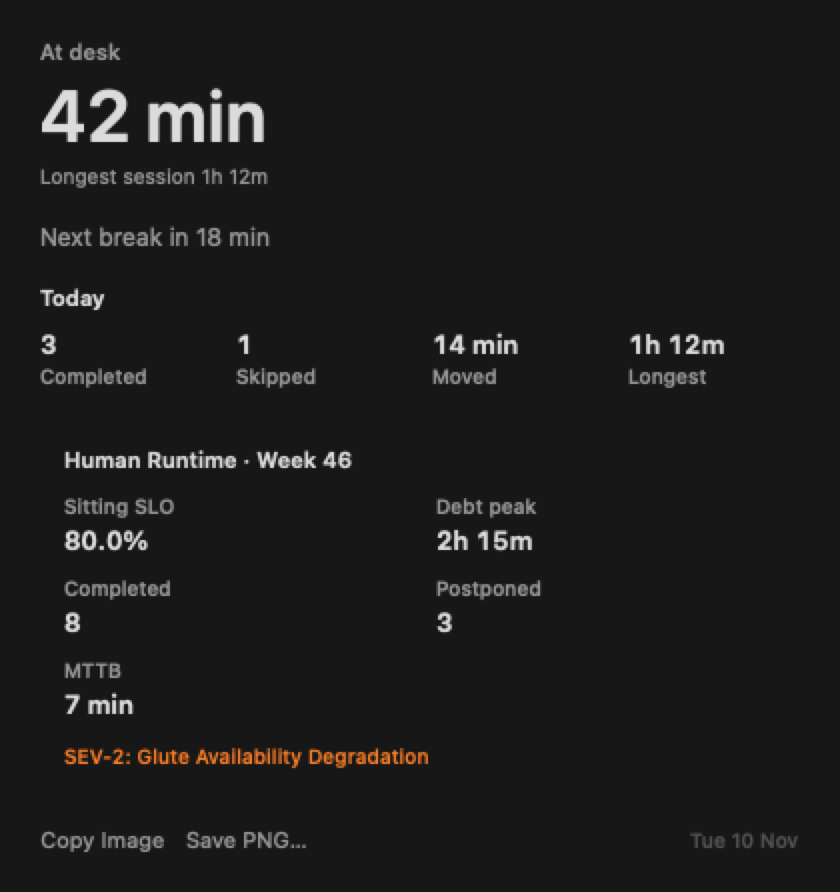
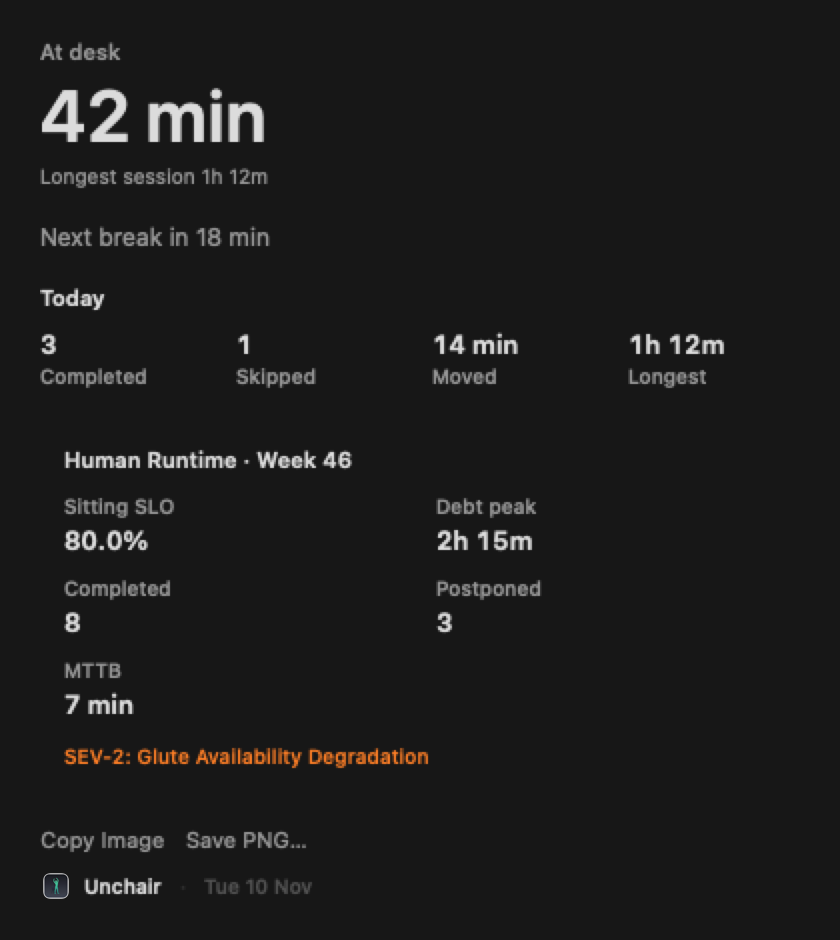
fix(ui): brand Today and share PNG with Unchair mark (#85)
Add logo + Unchair wordmark to the Today footer, and put the app icon plus
product name / privacy line / repo URL on the copy-save Human Runtime card.

diff --git a/Unchair/UI/TodayView.swift b/Unchair/UI/TodayView.swift
@@ -158,37 +158,46 @@ struct TodayDashboardLayout: View {
     }
 
     private var footer: some View {
-        HStack(alignment: .center, spacing: 10) {
-            Button("Copy Image") {
-                exportStatus = (onCopyImage ?? defaultCopy)()
-            }
-            .buttonStyle(.borderless)
-            .controlSize(.small)
-            .disabled(model.week.isEmpty)
-            .help(model.week.isEmpty ? "No week history to export" : "Copy Human Runtime card image")
-            .accessibilityHint(model.week.isEmpty ? "Unavailable until break history exists" : "Copies the weekly card to the clipboard")
+        VStack(alignment: .leading, spacing: 8) {
+            HStack(alignment: .center, spacing: 10) {
+                Button("Copy Image") {
+                    exportStatus = (onCopyImage ?? defaultCopy)()
+                }
+                .buttonStyle(.borderless)
+                .controlSize(.small)
+                .disabled(model.week.isEmpty)
+                .help(model.week.isEmpty ? "No week history to export" : "Copy branded Human Runtime card")
+                .accessibilityHint(model.week.isEmpty ? "Unavailable until break history exists" : "Copies the weekly card to the clipboard")
 
-            Button("Save PNG…") {
-                exportStatus = (onSavePNG ?? defaultSave)()
-            }
-            .buttonStyle(.borderless)
-            .controlSize(.small)
-            .disabled(model.week.isEmpty)
-            .help(model.week.isEmpty ? "No week history to export" : "Save Human Runtime card as PNG")
-            .accessibilityHint(model.week.isEmpty ? "Unavailable until break history exists" : "Opens a save panel for the weekly card")
+                Button("Save PNG…") {
+                    exportStatus = (onSavePNG ?? defaultSave)()
+                }
+                .buttonStyle(.borderless)
+                .controlSize(.small)
+                .disabled(model.week.isEmpty)
+                .help(model.week.isEmpty ? "No week history to export" : "Save branded Human Runtime card as PNG")
+                .accessibilityHint(model.week.isEmpty ? "Unavailable until break history exists" : "Opens a save panel for the weekly card")
 
-            if let exportStatus {
-                Text(exportStatus)
+                if let exportStatus {
+                    Text(exportStatus)
+                        .font(.caption2)
+                        .foregroundStyle(.tertiary)
+                        .accessibilityLabel("Export \(exportStatus.lowercased())")
+                }
+
+                Spacer(minLength: 8)
+            }
+
+            HStack(alignment: .center, spacing: 8) {
+                UnchairBrandMark(iconSide: 16, titleFont: .caption.weight(.semibold))
+                Text("·")
+                    .font(.caption2)
+                    .foregroundStyle(.quaternary)
+                Text(model.dayLabel)
                     .font(.caption2)
                     .foregroundStyle(.tertiary)
-                    .accessibilityLabel("Export \(exportStatus.lowercased())")
+                Spacer(minLength: 0)
             }
-
-            Spacer(minLength: 8)
-
-            Text(model.dayLabel)
-                .font(.caption2)
-                .foregroundStyle(.tertiary)
         }
     }
 

diff --git a/Unchair/UI/HumanRuntimeWeeklyCardView.swift b/Unchair/UI/HumanRuntimeWeeklyCardView.swift
@@ -169,30 +169,29 @@ enum HumanRuntimeWeeklyExportActions {
     }
 }
 
-/// Shareable export canvas — readable when scaled; same metrics, no Form chrome.
+/// Shareable export canvas — branded for copy/save; same metrics, no Form chrome.
 struct HumanRuntimeWeeklyCardCanvas: View {
     let summary: HumanRuntimeWeeklySummary
     var projectURL: String
 
     var body: some View {
         VStack(alignment: .leading, spacing: 0) {
-            HStack(alignment: .firstTextBaseline, spacing: 12) {
-                Image(systemName: "figure.stand")
-                    .font(.system(size: 22, weight: .semibold))
-                    .foregroundStyle(.secondary)
+            HStack(alignment: .center, spacing: 14) {
+                UnchairAppIcon(side: 44)
                 VStack(alignment: .leading, spacing: 2) {
-                    Text("Human Runtime")
+                    Text("Unchair")
                         .font(.title2.weight(.semibold))
+                    Text("Human Runtime · Week \(summary.weekNumber)")
+                        .font(.headline)
                     Text(weekRangeLabel)
                         .font(.subheadline)
                         .foregroundStyle(.secondary)
                 }
                 Spacer(minLength: 0)
-                Text("Week \(summary.weekNumber)")
-                    .font(.headline.monospacedDigit())
-                    .foregroundStyle(.secondary)
             }
-            .padding(.bottom, 20)
+            .padding(.bottom, 22)
+            .accessibilityElement(children: .combine)
+            .accessibilityLabel("Unchair Human Runtime, week \(summary.weekNumber), \(weekRangeLabel)")
 
             if summary.isEmpty {
                 Text("No break history this week.")
@@ -228,16 +227,18 @@ struct HumanRuntimeWeeklyCardCanvas: View {
                 }
             }
 
-            Spacer(minLength: 16)
+            Spacer(minLength: 20)
 
-            HStack {
-                Text("Unchair")
-                    .font(.subheadline.weight(.semibold))
-                Spacer()
-                Text(projectURL)
-                    .font(.caption)
+            VStack(alignment: .leading, spacing: 4) {
+                Text("Local movement proof — frames never leave this Mac.")
+                    .font(.callout)
                     .foregroundStyle(.secondary)
+                Text(projectURL)
+                    .font(.subheadline.weight(.medium).monospaced())
+                    .foregroundStyle(.primary)
             }
+            .accessibilityElement(children: .combine)
+            .accessibilityLabel("Local movement proof. \(projectURL)")
         }
         .padding(28)
         .frame(maxWidth: .infinity, maxHeight: .infinity, alignment: .topLeading)

diff --git a/Unchair/UI/UnchairBrandMark.swift b/Unchair/UI/UnchairBrandMark.swift
@@ -1,0 +1,58 @@
+import AppKit
+import SwiftUI
+
+/// Compact Unchair wordmark + app icon for Today / share cards (#85).
+struct UnchairBrandMark: View {
+    var iconSide: CGFloat = 18
+    var titleFont: Font = .subheadline.weight(.semibold)
+    var showsTitle: Bool = true
+
+    var body: some View {
+        HStack(spacing: 6) {
+            UnchairAppIcon(side: iconSide)
+            if showsTitle {
+                Text("Unchair")
+                    .font(titleFont)
+            }
+        }
+        .accessibilityElement(children: .ignore)
+        .accessibilityLabel("Unchair")
+    }
+}
+
+struct UnchairAppIcon: View {
+    var side: CGFloat
+
+    var body: some View {
+        Group {
+            if let image = Self.resolvedIcon() {
+                Image(nsImage: image)
+                    .resizable()
+                    .interpolation(.high)
+                    .aspectRatio(contentMode: .fit)
+            } else {
+                Image(systemName: "figure.stand")
+                    .font(.system(size: side * 0.7, weight: .semibold))
+                    .foregroundStyle(.secondary)
+            }
+        }
+        .frame(width: side, height: side)
+        .accessibilityHidden(true)
+    }
+
+    private static func resolvedIcon() -> NSImage? {
+        if let app = NSApp.applicationIconImage, app.size.width > 0 {
+            return app
+        }
+        if let named = NSImage(named: "AppIcon"), named.size.width > 0 {
+            return named
+        }
+        // Bundled icns used by the Direct build / Finder.
+        if let url = Bundle.main.url(forResource: "AppIcon", withExtension: "icns"),
+           let image = NSImage(contentsOf: url)
+        {
+            return image
+        }
+        return nil
+    }
+}

diff --git a/UnchairTests/TodayDashboardSnapshotTests.swift b/UnchairTests/TodayDashboardSnapshotTests.swift
@@ -52,7 +52,31 @@ final class TodayDashboardSnapshotTests: XCTestCase {
         )
         let size = hosting.fittingSize
         XCTAssertEqual(size.width, 420, accuracy: 1)
-        XCTAssertLessThan(size.height, 620)
+        XCTAssertLessThan(size.height, 640)
+    }
+
+    @MainActor
+    func testExportCanvasCarriesUnchairBrand() throws {
+        let weekStart = Calendar.current.date(from: DateComponents(year: 2026, month: 11, day: 9))!
+        let week = HumanRuntimeWeeklySummary(
+            weekNumber: 46,
+            weekStart: weekStart,
+            weekEndExclusive: weekStart.addingTimeInterval(7 * 86_400),
+            completedCount: 3,
+            postponedCount: 1,
+            skippedCount: 0,
+            movementDebtPeakSeconds: 3600,
+            meanTimeToButtOffSeconds: 300,
+            sittingSLOPercent: 75
+        )
+        let image = HumanRuntimeWeeklyCardExporter.image(
+            summary: week,
+            projectURL: "github.com/EtienneDeneuve/unchair",
+            size: CGSize(width: 840, height: 520)
+        )
+        XCTAssertNotNil(image)
+        // Sanity: branded export must be a real bitmap (icon + wordmark rendered).
+        XCTAssertGreaterThan(image?.size.width ?? 0, 800)
     }
 
     // MARK: - Fixtures
